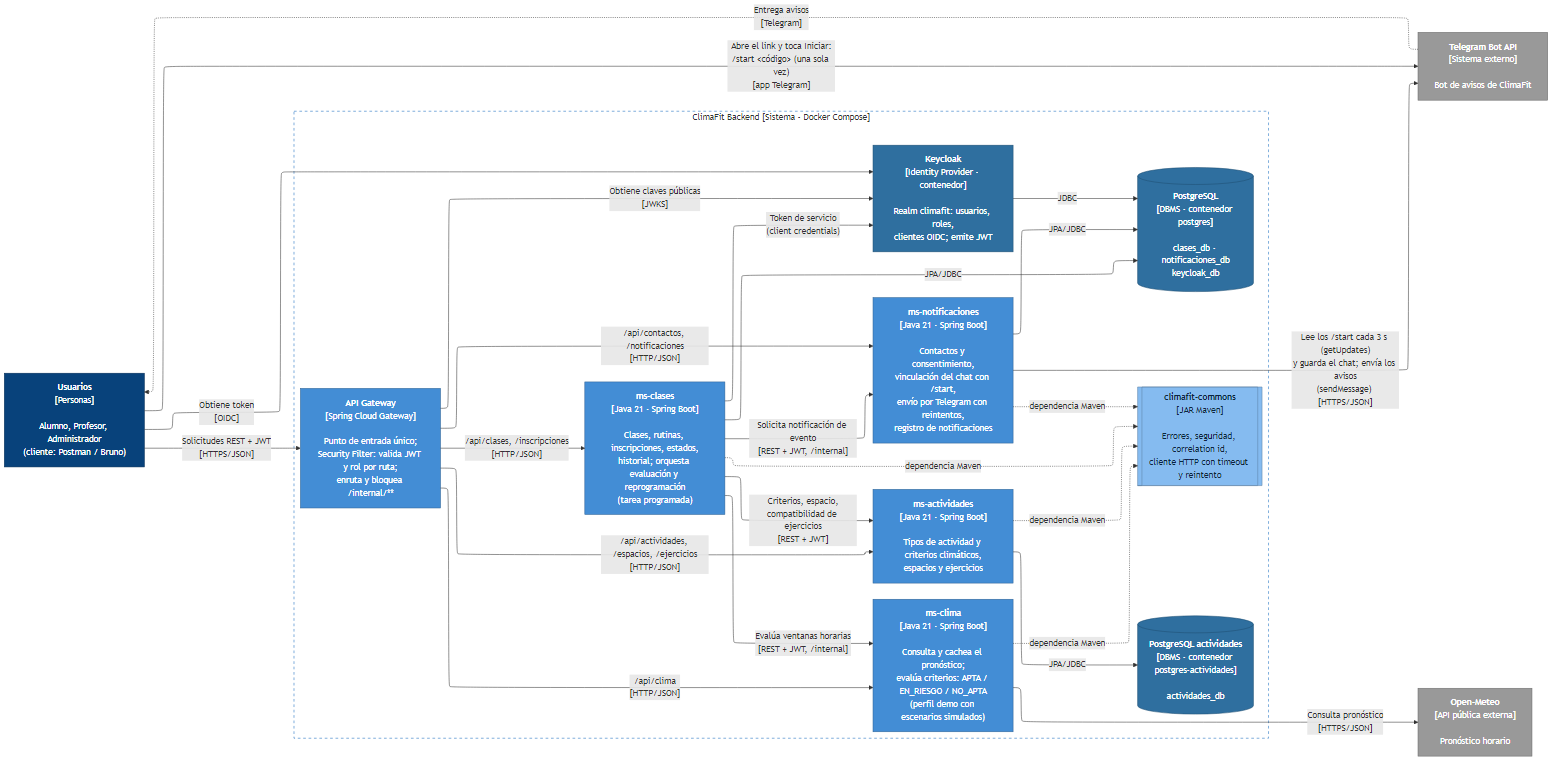
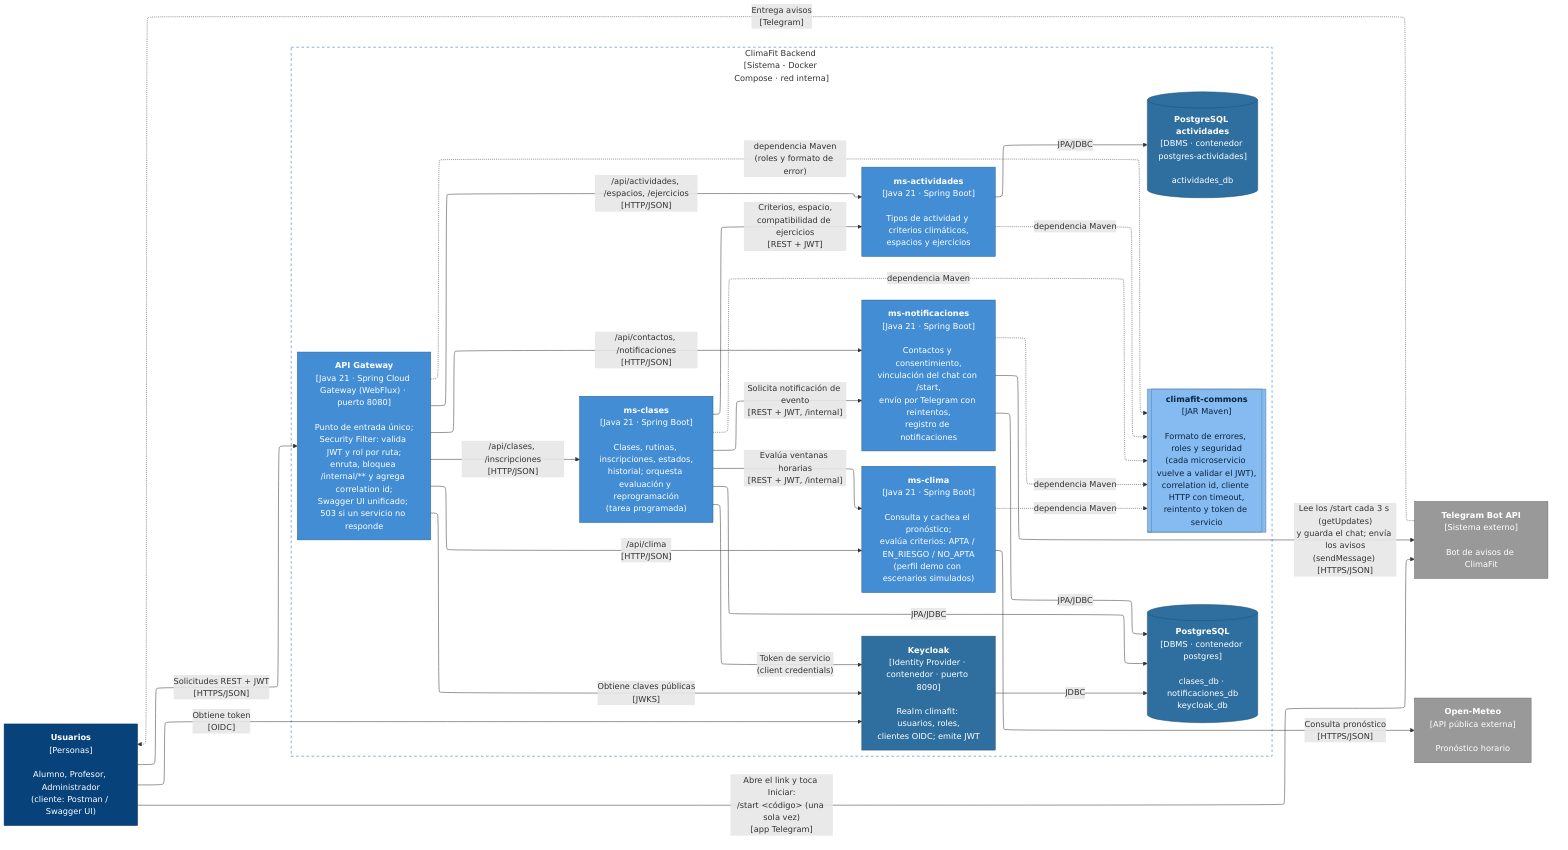
Diagrama C4 de contenedores al día y advertencias de tests de ms-clases
- C2: flecha API Gateway -> climafit-commons (roles y formato de error),
  puertos publicados (8080 y 8090), correlation id, Swagger UI unificado y
  503 en el gateway; cada microservicio vuelve a validar el JWT; cliente
  Postman / Swagger UI (no se usa Bruno). PNG regenerado con Mermaid 11.4.2,
  la misma versión que el original.
- Propuesta: bloque del C2 sincronizado y sección 06 con el gateway entre los
  usuarios de climafit-commons.
- Tests de ms-clases: import sin uso en ReprogramacionServiceTest y
  ArgumentCaptor.captor() en EvaluacionServiceTest (sin advertencias de tipos).

diff --git a/ms-clases/src/test/java/ar/edu/utn/frc/climafit/clases/reprogramacion/ReprogramacionServiceTest.java b/ms-clases/src/test/java/ar/edu/utn/frc/climafit/clases/reprogramacion/ReprogramacionServiceTest.java
@@ -28,7 +28,6 @@ import ar.edu.utn.frc.climafit.clases.estado.CambioEstadoService;
 import ar.edu.utn.frc.climafit.clases.estado.EstadoClase;
 import ar.edu.utn.frc.climafit.clases.evaluacion.ResultadoEvaluacion;
 import ar.edu.utn.frc.climafit.clases.inscripcion.EstadoInscripcion;
-import ar.edu.utn.frc.climafit.clases.inscripcion.Inscripcion;
 import ar.edu.utn.frc.climafit.clases.inscripcion.InscripcionRepository;
 import ar.edu.utn.frc.climafit.commons.error.ServicioNoDisponibleException;
 import java.time.LocalDateTime;

diff --git a/ms-clases/src/test/java/ar/edu/utn/frc/climafit/clases/evaluacion/EvaluacionServiceTest.java b/ms-clases/src/test/java/ar/edu/utn/frc/climafit/clases/evaluacion/EvaluacionServiceTest.java
@@ -122,7 +122,7 @@ class EvaluacionServiceTest {
 
         servicio.evaluarManual(c, "profe1");
 
-        ArgumentCaptor<List<String>> destinatarios = ArgumentCaptor.forClass(List.class);
+        ArgumentCaptor<List<String>> destinatarios = ArgumentCaptor.captor();
         verify(aviso).avisar(any(), eq(TipoEvento.ALERTA_RIESGO), anyString(), destinatarios.capture());
         assertEquals(List.of("profe1"), destinatarios.getValue());
     }

diff --git a/docs/propuesta.md b/docs/propuesta.md
@@ -447,18 +447,18 @@ config:
 ---
 %% C2 - Diagrama de Contenedores (C4) - ClimaFit
 flowchart LR
-  usuarios["<b>Usuarios</b><br/>[Personas]<br/><br/>Alumno, Profesor, Administrador<br/>(cliente: Postman / Bruno)"]
+  usuarios["<b>Usuarios</b><br/>[Personas]<br/><br/>Alumno, Profesor, Administrador<br/>(cliente: Postman / Swagger UI)"]
 
-  subgraph sistema["ClimaFit Backend [Sistema - Docker Compose]"]
-    gateway["<b>API Gateway</b><br/>[Spring Cloud Gateway]<br/><br/>Punto de entrada único;<br/>Security Filter: valida JWT y rol por ruta;<br/>enruta y bloquea /internal/**"]
+  subgraph sistema["ClimaFit Backend [Sistema - Docker Compose · red interna]"]
+    gateway["<b>API Gateway</b><br/>[Java 21 · Spring Cloud Gateway (WebFlux) · puerto 8080]<br/><br/>Punto de entrada único;<br/>Security Filter: valida JWT y rol por ruta;<br/>enruta, bloquea /internal/** y agrega correlation id;<br/>Swagger UI unificado; 503 si un servicio no responde"]
     actividades["<b>ms-actividades</b><br/>[Java 21 · Spring Boot]<br/><br/>Tipos de actividad y criterios climáticos,<br/>espacios y ejercicios"]
     clases["<b>ms-clases</b><br/>[Java 21 · Spring Boot]<br/><br/>Clases, rutinas, inscripciones, estados,<br/>historial; orquesta evaluación y reprogramación<br/>(tarea programada)"]
     clima["<b>ms-clima</b><br/>[Java 21 · Spring Boot]<br/><br/>Consulta y cachea el pronóstico;<br/>evalúa criterios: APTA / EN_RIESGO / NO_APTA<br/>(perfil demo con escenarios simulados)"]
     notificaciones["<b>ms-notificaciones</b><br/>[Java 21 · Spring Boot]<br/><br/>Contactos y consentimiento,<br/>vinculación del chat con /start,<br/>envío por Telegram con reintentos,<br/>registro de notificaciones"]
-    commons[["<b>climafit-commons</b><br/>[JAR Maven]<br/><br/>Errores, seguridad, correlation id,<br/>cliente HTTP con timeout y reintento"]]
+    commons[["<b>climafit-commons</b><br/>[JAR Maven]<br/><br/>Formato de errores, roles y seguridad<br/>(cada microservicio vuelve a validar el JWT),<br/>correlation id, cliente HTTP con timeout,<br/>reintento y token de servicio"]]
     db[("<b>PostgreSQL</b><br/>[DBMS · contenedor postgres]<br/><br/>clases_db · notificaciones_db<br/>keycloak_db")]
     dbActividades[("<b>PostgreSQL actividades</b><br/>[DBMS · contenedor postgres-actividades]<br/><br/>actividades_db")]
-    keycloak["<b>Keycloak</b><br/>[Identity Provider · contenedor]<br/><br/>Realm climafit: usuarios, roles,<br/>clientes OIDC; emite JWT"]
+    keycloak["<b>Keycloak</b><br/>[Identity Provider · contenedor · puerto 8090]<br/><br/>Realm climafit: usuarios, roles,<br/>clientes OIDC; emite JWT"]
   end
 
   openmeteo["<b>Open-Meteo</b><br/>[API pública externa]<br/><br/>Pronóstico horario"]
@@ -491,6 +491,7 @@ flowchart LR
   clases -.->|"dependencia Maven"| commons
   clima -.->|"dependencia Maven"| commons
   notificaciones -.->|"dependencia Maven"| commons
+  gateway -.->|"dependencia Maven<br/>(roles y formato de error)"| commons
 
   classDef persona fill:#08427b,stroke:#052e56,color:#ffffff
   classDef contenedor fill:#438dd5,stroke:#2e6295,color:#ffffff
@@ -513,6 +514,8 @@ flowchart LR
 - Su Security Filter valida el JWT contra Keycloak (401 si falta o es inválido) y aplica reglas de rol por ruta y método (403).
 - No expone las rutas `/internal/**`.
 - Genera el `X-Correlation-Id` y publica el Swagger UI unificado.
+- Si un microservicio no responde o tarda más que el timeout, responde 503 `SERVICIO_NO_DISPONIBLE`.
+- Usa `climafit-commons` para los roles, la lectura de roles del JWT y el formato de error, igual que los microservicios.
 
 **ms-actividades** — Java 21, Spring Boot, Spring Data JPA
 - Catálogo del dominio: tipos de actividad con sus criterios climáticos, espacios con coordenadas y ejercicios (base y personalizados).
@@ -538,7 +541,7 @@ flowchart LR
 - Base: `notificaciones_db`.
 
 **climafit-commons** — JAR Maven
-- Librería propia usada por los cuatro microservicios: errores, seguridad, correlation id y cliente HTTP (ver Sección 09).
+- Librería propia usada por los cuatro microservicios (errores, seguridad, correlation id y cliente HTTP) y por el API Gateway (roles y formato de error). Ver Sección 09.
 - No es un contenedor en ejecución: es una dependencia empaquetada dentro de cada servicio.
 
 **PostgreSQL** — PostgreSQL 17, dos contenedores
